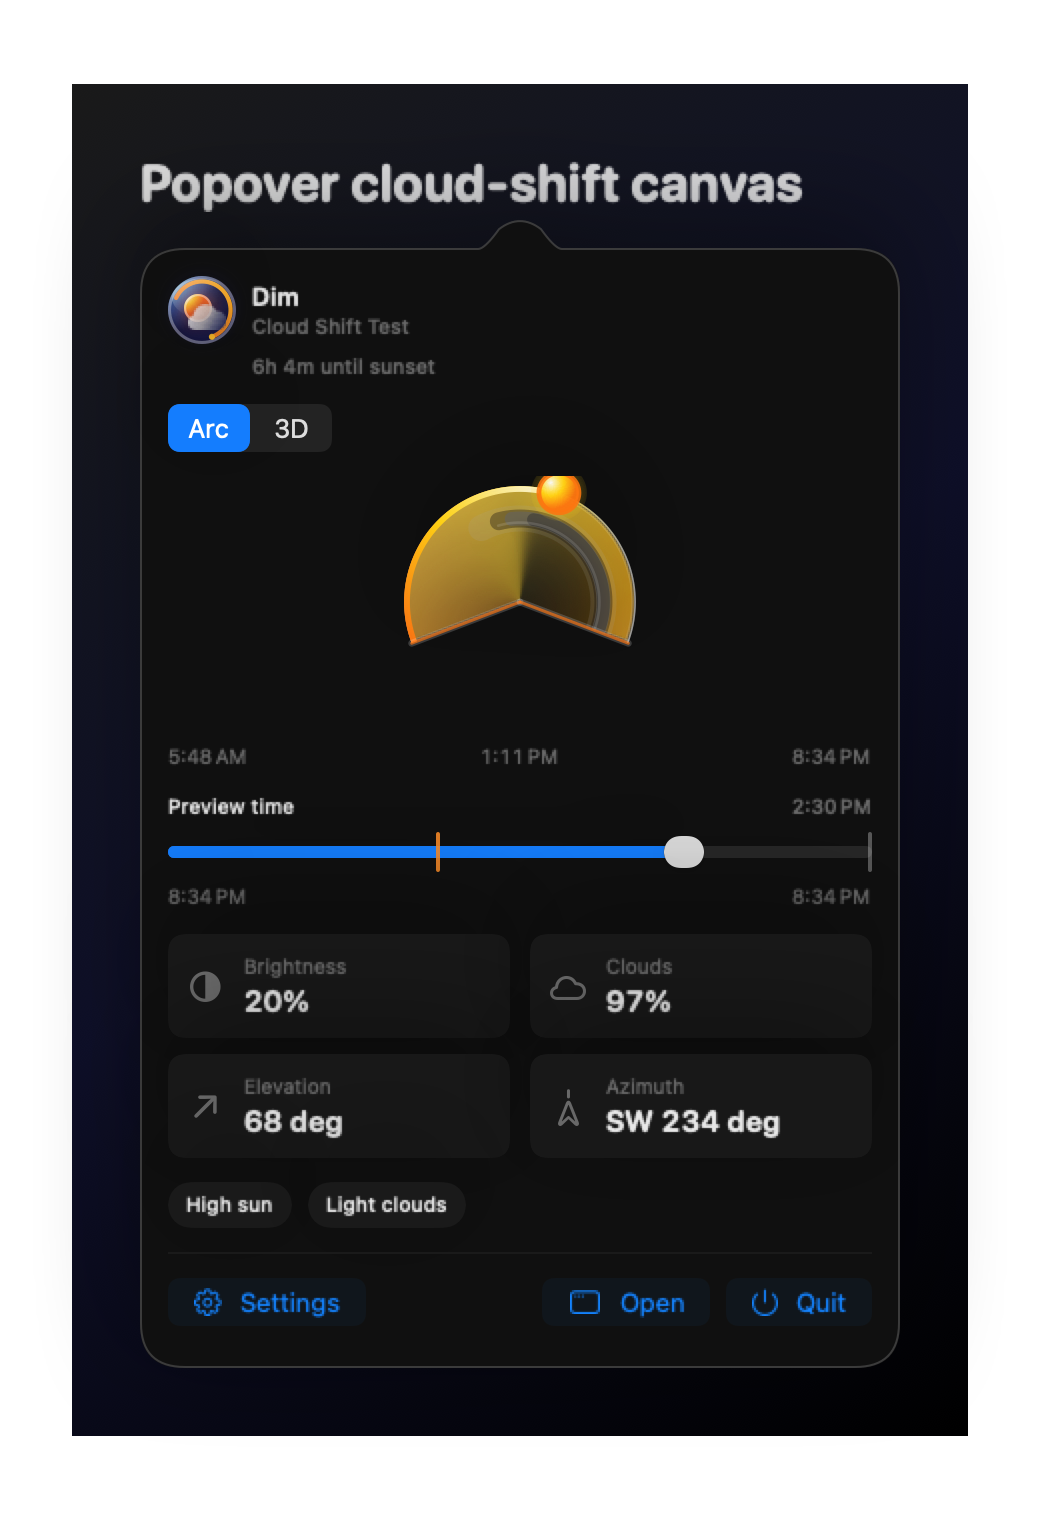
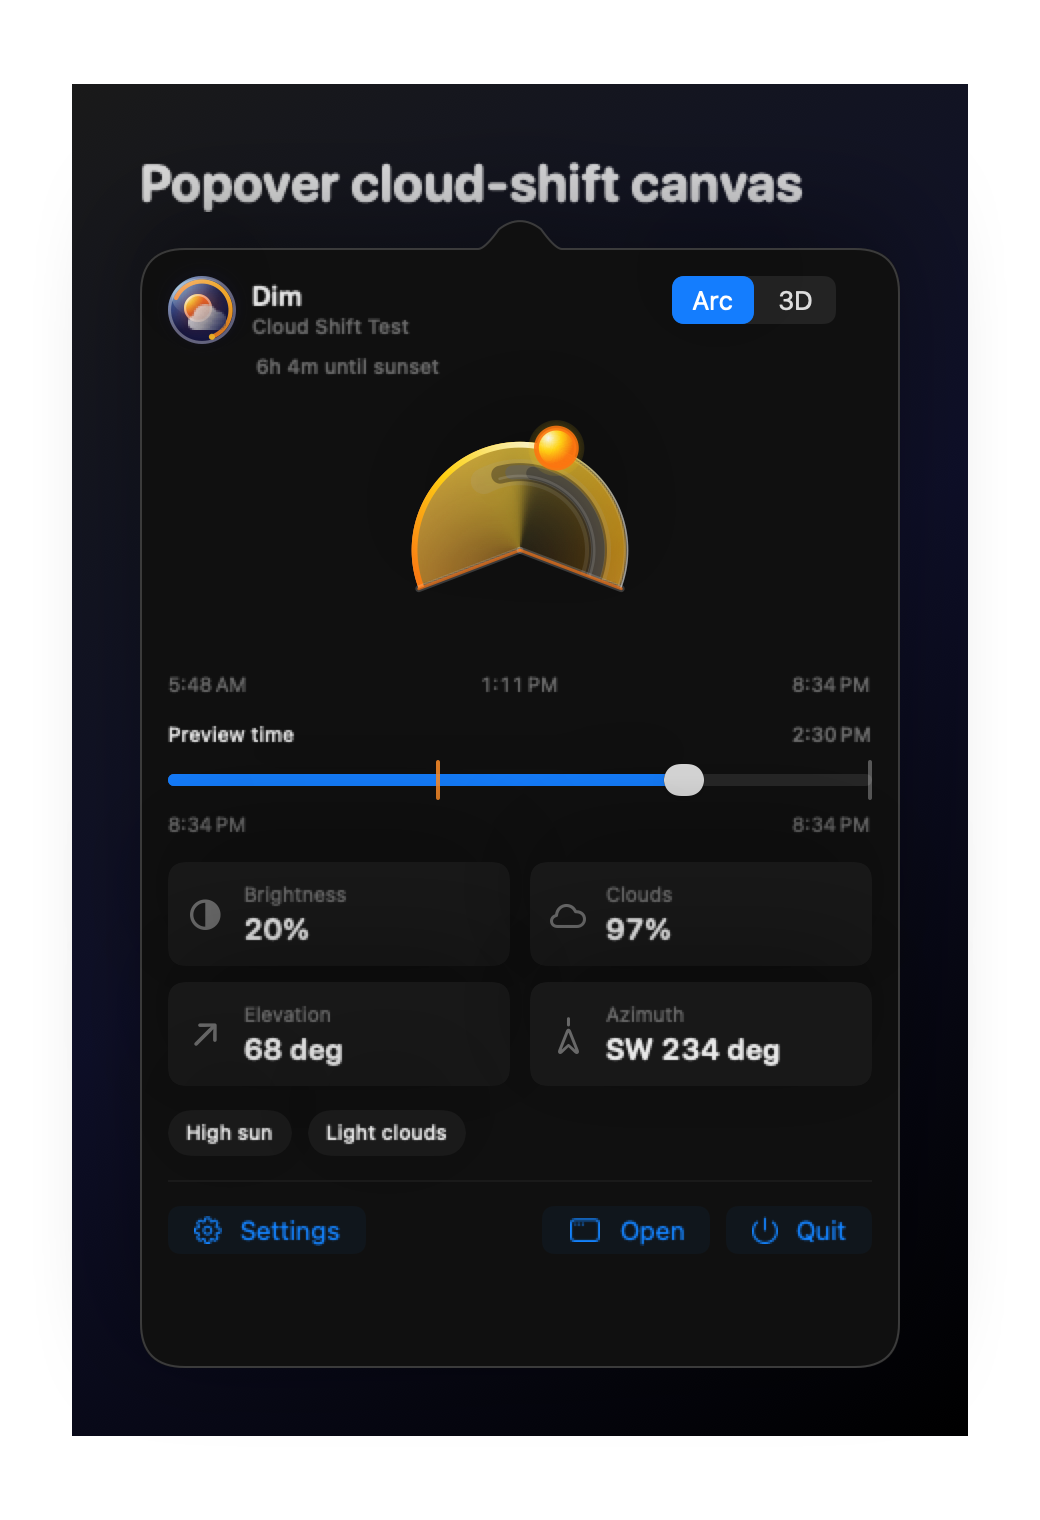
Polish widget dropdown evidence layout

diff --git a/Sources/SunStatus/Views/SunStatusWidgetCanvasPreview.swift b/Sources/SunStatus/Views/SunStatusWidgetCanvasPreview.swift
@@ -19,6 +19,7 @@ private enum WidgetCanvasFamily {
 private struct SunStatusWidgetCanvasPreview: View {
     let status: DaylightStatus
     let family: WidgetCanvasFamily
+    var includesEvidenceBackdrop = true
 
     var body: some View {
         Group {
@@ -40,8 +41,8 @@ private struct SunStatusWidgetCanvasPreview: View {
         }
         .clipShape(RoundedRectangle(cornerRadius: 28, style: .continuous))
         .shadow(color: .black.opacity(0.18), radius: 18, y: 8)
-        .padding(24)
-        .background(Color(nsColor: .windowBackgroundColor))
+        .padding(includesEvidenceBackdrop ? 24 : 0)
+        .background(includesEvidenceBackdrop ? Color(nsColor: .windowBackgroundColor) : Color.clear)
     }
 
     private var smallContent: some View {
@@ -219,23 +220,25 @@ private struct SunStatusWidgetCanvasPreview: View {
 
 private struct SunStatusWidgetDropdownEvidence: View {
     private let status = SunStatusWidgetCanvasPreviewData.cloudShiftStatus
+    private let panelBackground = Color(red: 0.95, green: 0.97, blue: 0.98)
 
     var body: some View {
-        VStack(alignment: .leading, spacing: 28) {
+        VStack(alignment: .leading, spacing: 26) {
             Text("Widget dropdown with dynamic icons")
-                .font(.system(size: 38, weight: .bold, design: .rounded))
+                .font(.system(size: 34, weight: .bold, design: .rounded))
 
-            HStack(alignment: .top, spacing: 28) {
+            HStack(alignment: .top, spacing: 30) {
                 dropdownPanel
-                    .frame(width: 300)
+                    .frame(width: 292)
 
                 SunStatusWidgetCanvasPreview(
                     status: status,
-                    family: .medium
+                    family: .medium,
+                    includesEvidenceBackdrop: false
                 )
             }
         }
-        .padding(40)
+        .padding(46)
         .frame(width: 1_120, height: 640, alignment: .topLeading)
         .background(Color.white)
         .foregroundStyle(Color(red: 0.14, green: 0.15, blue: 0.17))
@@ -244,18 +247,19 @@ private struct SunStatusWidgetDropdownEvidence: View {
     private var dropdownPanel: some View {
         VStack(alignment: .leading, spacing: 12) {
             Text("Dynamic icon")
-                .font(.headline)
+                .font(.subheadline.weight(.semibold))
                 .foregroundStyle(.secondary)
 
             HStack(spacing: 10) {
-                SunStatusDynamicIcon(status: status, size: 34, variant: .orb)
+                SunStatusDynamicIcon(status: status, size: 30, variant: .orb)
+                    .frame(width: 44, height: 44)
 
                 VStack(alignment: .leading, spacing: 1) {
                     Text("Orb")
-                        .font(.system(size: 17, weight: .semibold, design: .rounded))
+                        .font(.system(size: 16, weight: .semibold, design: .rounded))
 
                     Text("Selected for widgets")
-                        .font(.caption)
+                        .font(.caption2)
                         .foregroundStyle(.secondary)
                 }
 
@@ -266,11 +270,11 @@ private struct SunStatusWidgetDropdownEvidence: View {
                     .foregroundStyle(.secondary)
             }
             .padding(.horizontal, 12)
-            .padding(.vertical, 10)
+            .padding(.vertical, 8)
             .background(.white, in: RoundedRectangle(cornerRadius: 10, style: .continuous))
             .overlay {
                 RoundedRectangle(cornerRadius: 10, style: .continuous)
-                    .strokeBorder(Color.black.opacity(0.12), lineWidth: 1)
+                    .strokeBorder(Color.black.opacity(0.08), lineWidth: 1)
             }
 
             VStack(spacing: 0) {
@@ -286,20 +290,21 @@ private struct SunStatusWidgetDropdownEvidence: View {
             .background(.white, in: RoundedRectangle(cornerRadius: 12, style: .continuous))
             .overlay {
                 RoundedRectangle(cornerRadius: 12, style: .continuous)
-                    .strokeBorder(Color.black.opacity(0.10), lineWidth: 1)
+                    .strokeBorder(Color.black.opacity(0.08), lineWidth: 1)
             }
             .shadow(color: .black.opacity(0.12), radius: 20, y: 8)
         }
         .padding(18)
-        .background(Color(red: 0.96, green: 0.97, blue: 0.98), in: RoundedRectangle(cornerRadius: 16, style: .continuous))
+        .background(panelBackground, in: RoundedRectangle(cornerRadius: 16, style: .continuous))
     }
 
     private func dropdownRow(variant: SunStatusDynamicIconVariant) -> some View {
         HStack(spacing: 10) {
-            SunStatusDynamicIcon(status: status, size: 30, variant: variant)
+            SunStatusDynamicIcon(status: status, size: 26, variant: variant)
+                .frame(width: 40, height: 40)
 
             Text(variant.displayName)
-                .font(.system(size: 15, weight: .semibold, design: .rounded))
+                .font(.system(size: 14, weight: .semibold, design: .rounded))
 
             Spacer(minLength: 0)
 
@@ -310,7 +315,7 @@ private struct SunStatusWidgetDropdownEvidence: View {
             }
         }
         .padding(.horizontal, 12)
-        .padding(.vertical, 10)
+        .padding(.vertical, 8)
         .background {
             if variant == .orb {
                 RoundedRectangle(cornerRadius: 9, style: .continuous)

diff --git a/Sources/SunStatus/Views/SunStatusPopoverView.swift b/Sources/SunStatus/Views/SunStatusPopoverView.swift
@@ -30,22 +30,12 @@ struct SunStatusPopoverView: View {
         VStack(alignment: .leading, spacing: 12) {
             header
 
-            Picker("Panel", selection: $selectedPanel) {
-                ForEach(PopoverPanel.allCases, id: \.self) { panel in
-                    Label(panel.title, systemImage: panel.symbolName)
-                        .tag(panel)
-                }
-            }
-            .labelsHidden()
-            .pickerStyle(.segmented)
-
             switch selectedPanel {
             case .arc:
                 SunStatusDynamicArcView(
                     status: status,
                     scale: .widgetLarge,
-                    previewProgress: arcPreviewDaylightProgress,
-                    previewDate: arcPreviewDate
+                    preview: dynamicArcPreview
                 )
 
                 arcPreviewSlider
@@ -80,14 +70,28 @@ struct SunStatusPopoverView: View {
     }
 
     private var header: some View {
-        VStack(alignment: .leading, spacing: 5) {
-            SunStatusIdentityHeader(status: status, scale: .standard, showsLocation: true)
+        HStack(alignment: .top, spacing: 10) {
+            VStack(alignment: .leading, spacing: 5) {
+                SunStatusIdentityHeader(status: headerStatus, scale: .standard, showsLocation: true)
 
-            Text(nextTransitionText)
-                .font(.caption.weight(.medium))
-                .foregroundStyle(.secondary)
-                .lineLimit(1)
-                .padding(.leading, 42)
+                Text(nextTransitionText)
+                    .font(.caption.weight(.medium))
+                    .foregroundStyle(.secondary)
+                    .lineLimit(1)
+                    .padding(.leading, 44)
+            }
+
+            Spacer(minLength: 8)
+
+            Picker("Panel", selection: $selectedPanel) {
+                ForEach(PopoverPanel.allCases, id: \.self) { panel in
+                    Label(panel.title, systemImage: panel.symbolName)
+                        .tag(panel)
+                }
+            }
+            .labelsHidden()
+            .pickerStyle(.segmented)
+            .frame(width: 118)
         }
     }
 
@@ -183,6 +187,46 @@ struct SunStatusPopoverView: View {
 
     private var arcPreviewDaylightProgress: Double? {
         arcPreviewTimeline.daylightProgress(for: arcPreviewDate)
+    }
+
+    private var dynamicArcPreview: SunStatusDynamicArcView.Preview {
+        SunStatusDynamicArcView.Preview(progress: arcPreviewDaylightProgress, date: arcPreviewDate)
+    }
+
+    private var headerStatus: DaylightStatus {
+        guard selectedPanel == .arc else {
+            return status
+        }
+
+        let sample = arcPreviewSample
+        let score = arcBrightnessScore
+        let cloudCover = sample.cloudCover ?? status.brightness.cloudCover
+        let modifiers = modifiers(elevationDegrees: sample.elevationDegrees, cloudCover: cloudCover)
+
+        return DaylightStatus(
+            locationName: status.locationName,
+            timezone: status.timezone,
+            solar: SolarSnapshot(
+                date: arcPreviewDate,
+                location: status.solar.location,
+                sunrise: status.solar.sunrise,
+                solarNoon: status.solar.solarNoon,
+                sunset: status.solar.sunset,
+                elevationDegrees: sample.elevationDegrees,
+                azimuthDegrees: sample.azimuthDegrees,
+                daylightProgress: arcPreviewDaylightProgress
+            ),
+            brightness: BrightnessSnapshot(
+                date: arcPreviewDate,
+                score: score,
+                classification: brightnessClassification(score: score),
+                cloudCover: cloudCover,
+                uvIndex: status.brightness.uvIndex,
+                visibilityMeters: status.brightness.visibilityMeters,
+                modifiers: modifiers
+            ),
+            arcPoints: status.arcPoints
+        )
     }
 
     private var arcPreviewSliderMarkers: [TimelineSliderMarker] {
@@ -297,6 +341,21 @@ struct SunStatusPopoverView: View {
         }
 
         return min(max(clearSky * (1 - cloudCover * 0.80), 0.05), 1)
+    }
+
+    private func brightnessClassification(score: Double) -> BrightnessClassification {
+        switch score {
+        case ..<0.18:
+            return .dark
+        case 0.18..<0.38:
+            return .dim
+        case 0.38..<0.62:
+            return .muted
+        case 0.62..<0.86:
+            return .bright
+        default:
+            return .vivid
+        }
     }
 
     private func modifiers(elevationDegrees: Double, cloudCover: Double?) -> [BrightnessModifier] {

diff --git a/Sources/SunStatusUI/SunStatusDynamicArcView.swift b/Sources/SunStatusUI/SunStatusDynamicArcView.swift
@@ -30,31 +30,53 @@ public enum SunStatusDynamicArcScale: Sendable {
 }
 
 public struct SunStatusDynamicArcView: View {
+    public struct Preview: Sendable {
+        let progress: Double?
+        let date: Date
+
+        public init(progress: Double?, date: Date) {
+            self.progress = progress
+            self.date = date
+        }
+    }
+
     private let status: DaylightStatus
     private let scale: SunStatusDynamicArcScale
-    private let previewProgress: Double?
-    private let previewDate: Date?
+    private let preview: Preview?
     private let showsTimeLabelsOverride: Bool?
 
     public init(
         status: DaylightStatus,
         scale: SunStatusDynamicArcScale,
-        previewProgress: Double? = nil,
-        previewDate: Date? = nil,
+        preview: Preview? = nil,
         showsTimeLabels: Bool? = nil
     ) {
         self.status = status
         self.scale = scale
-        self.previewProgress = previewProgress
-        self.previewDate = previewDate
+        self.preview = preview
         self.showsTimeLabelsOverride = showsTimeLabels
+    }
+
+    public init(
+        status: DaylightStatus,
+        scale: SunStatusDynamicArcScale,
+        previewProgress: Double?,
+        previewDate: Date,
+        showsTimeLabels: Bool? = nil
+    ) {
+        self.init(
+            status: status,
+            scale: scale,
+            preview: Preview(progress: previewProgress, date: previewDate),
+            showsTimeLabels: showsTimeLabels
+        )
     }
 
     public var body: some View {
         SolarArcView(
             status: status,
-            previewProgress: previewProgress,
-            previewDate: previewDate,
+            previewProgress: preview?.progress,
+            previewDate: preview?.date,
             showsTimeLabels: showsTimeLabelsOverride ?? scale.showsTimeLabels,
             arcHeight: scale.arcHeight,
             daylightLayout: .proportional

diff --git a/Sources/SunStatusUI/SolarArcView.swift b/Sources/SunStatusUI/SolarArcView.swift
@@ -1376,11 +1376,11 @@ private struct ProportionalDaylightArcGeometry {
     let dayFraction: Double
 
     var center: CGPoint {
-        CGPoint(x: size.width / 2, y: size.height / 2)
+        CGPoint(x: size.width / 2, y: size.height * 0.58)
     }
 
     var radius: CGFloat {
-        min(size.width * 0.44, size.height * 0.46)
+        min(size.width * 0.44, size.height * 0.43)
     }
 
     var dayAngle: CGFloat {
